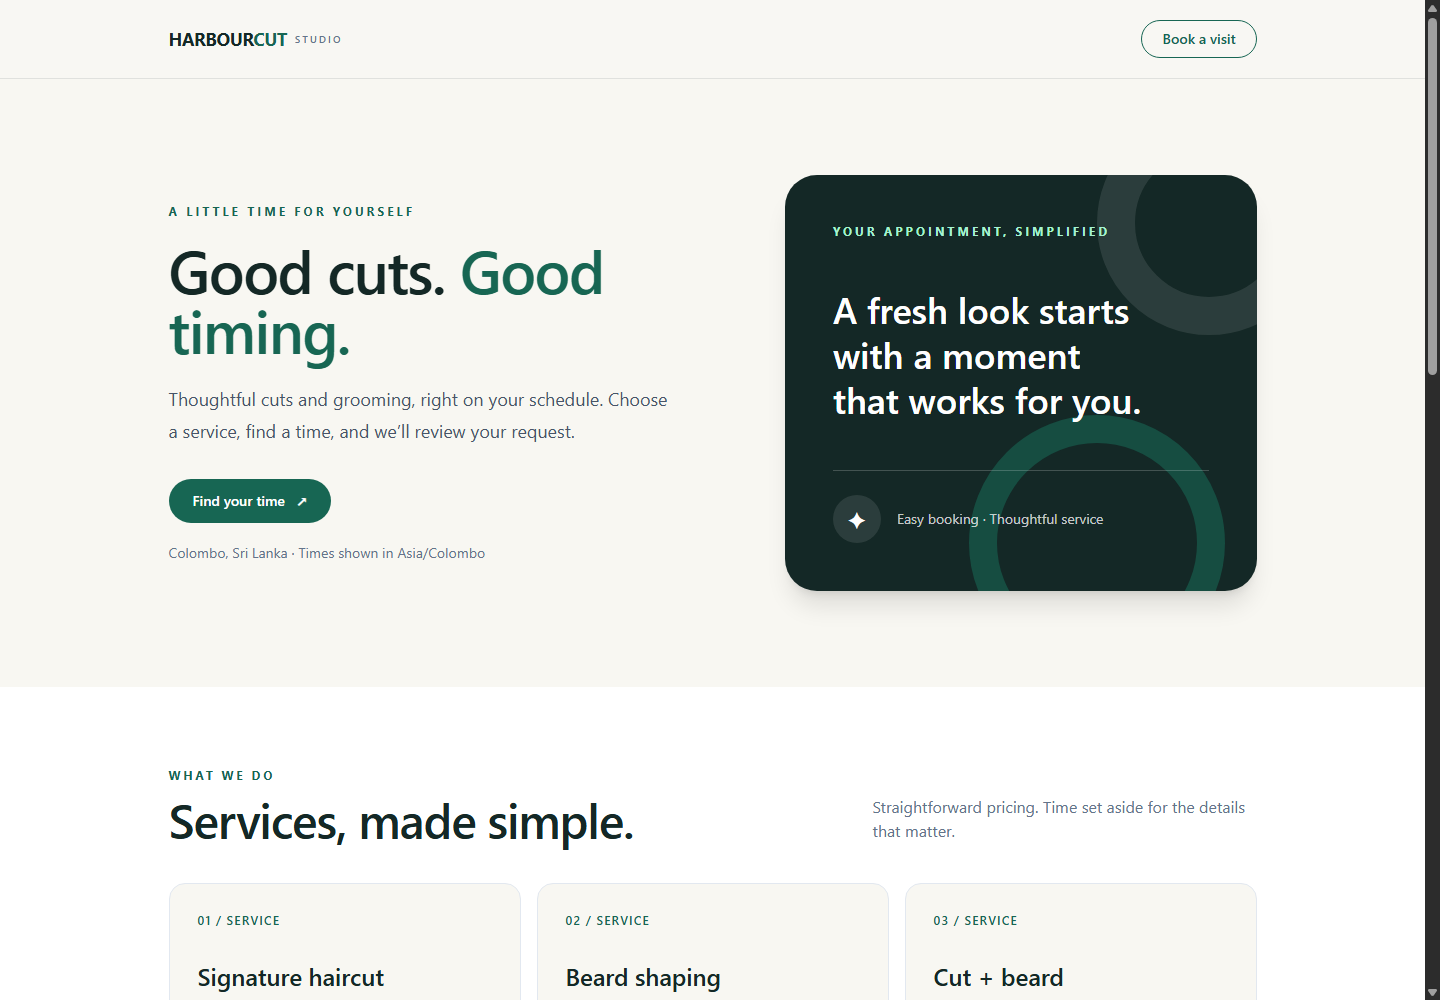
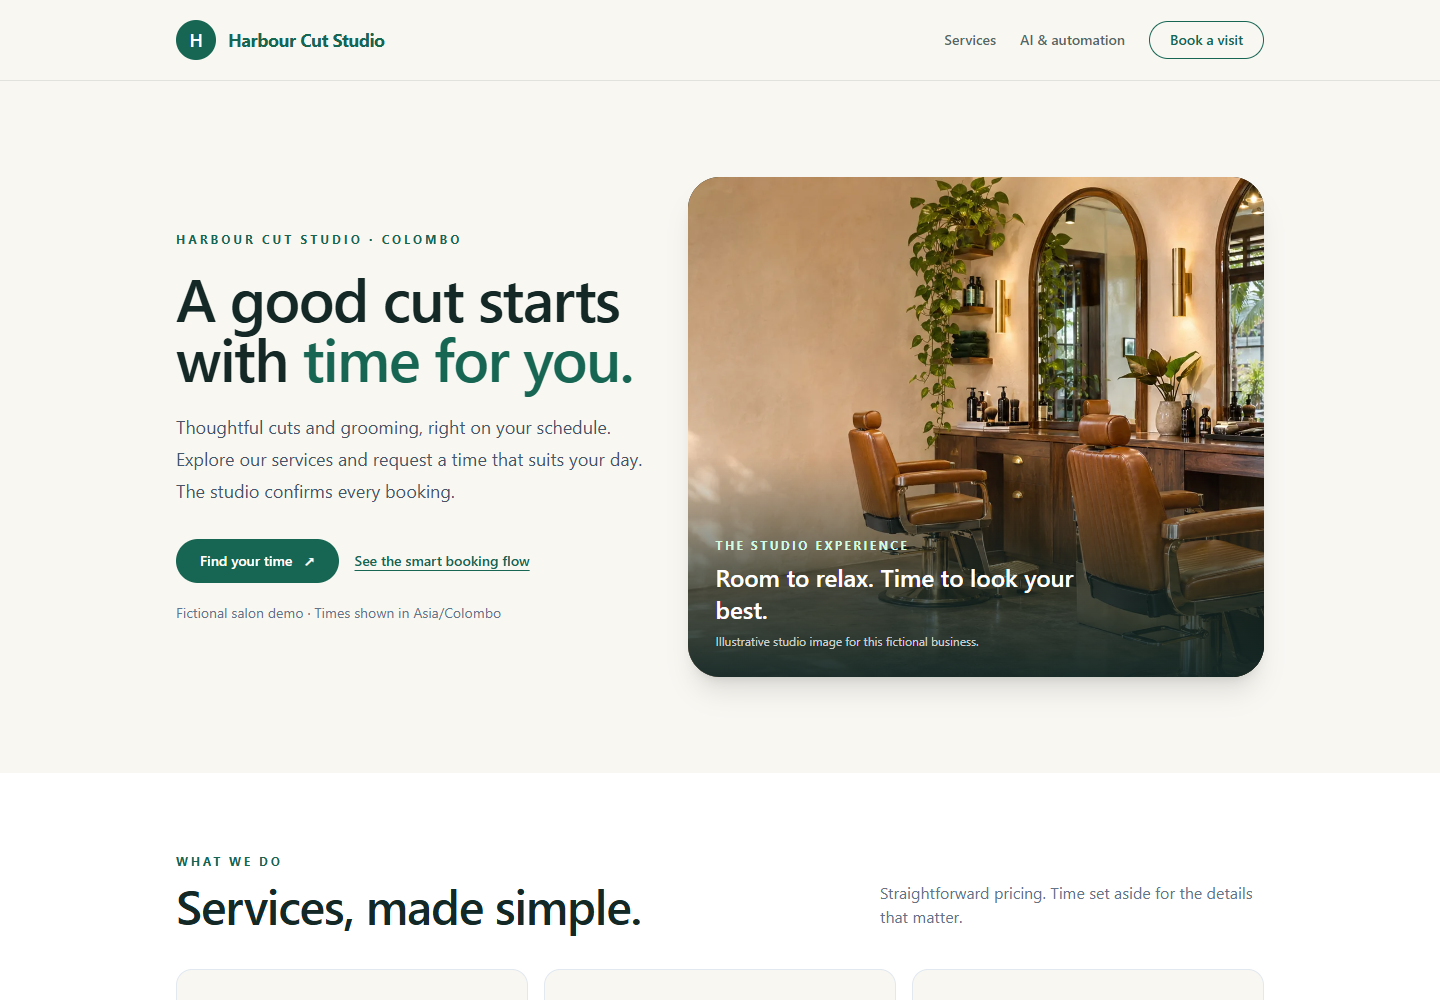
Show verified salon and automation previews in project docs

diff --git a/docs/architecture.md b/docs/architecture.md
@@ -18,9 +18,9 @@ Implemented tables: businesses, services, resources, working_hours, appointments
 
 ## Security and AI
 
-Public routes expose only publishable business and availability data. Owner routes use PBKDF2 password verification and hashed, expiring D1 sessions in HTTP-only, SameSite=Strict cookies. The API checks request origins, and production HTTPS adds the Secure cookie flag. Zod schemas validate API input; SQL parameters prevent injection. Request bodies are bounded, and database-backed per-client limits protect booking, assistant, and login endpoints. Logs omit secrets and private enquiry content. The assistant uses deterministic extraction by default; an optional Cloudflare AI binding requires visitor consent and validated structured output. AI cannot submit a booking. Customer-facing notification drafts require owner approval and use a mock delivery adapter; no external message is sent.
+Public routes expose only publishable business and availability data. The local owner setup supports PBKDF2; the deployed Free-tier demo uses a generated 256-bit password with a salted SHA-256 verifier to fit the Workers CPU budget. Both paths issue hashed, expiring D1 sessions in HTTP-only, SameSite=Strict cookies. The API checks request origins, and production HTTPS adds the Secure cookie flag. Zod schemas validate API input; SQL parameters prevent injection. Request bodies are bounded, and database-backed per-client limits protect booking, assistant, and login endpoints. Logs omit secrets and private enquiry content. The assistant uses deterministic extraction by default; an optional Cloudflare AI binding requires visitor consent and validated structured output. AI cannot submit a booking. Customer-facing notification drafts require owner approval and use a mock delivery adapter; no external message is sent.
 
-The public `/owner-preview` route holds four hard-coded fictional appointments in browser memory. Its filters and status buttons do not call owner APIs or persist data. The authenticated `/owner` route remains the only interface for real owner records and actions.
+The public `/owner-preview` route holds four hard-coded fictional appointments and an interactive AI and automation walkthrough in browser memory. Its filters, status buttons, and sample workflow do not call owner APIs or persist data. The authenticated `/owner` route remains the only interface for real owner records and actions.
 
 The server defaults to demo mode. Public booking requests must use a reserved `@example.invalid` contact, and the server replaces submitted names and notes with a fixed fictional name and an empty note. These rules are configured through `DEMO_MODE` rather than shared booking logic. A production business would need a separate real-data privacy and deployment review before setting `DEMO_MODE=false`.
 
@@ -30,4 +30,4 @@ The scheduled Worker releases at most two demo reservations more than 24 hours a
 
 Customer lookup and cancellation use the booking reference plus a private random UUID shown at submission, sent in POST bodies and matched within the business. This is a bearer code: anyone who obtains both values can act on the booking. Stronger verified customer accounts and recovery remain future work. Cancellation is allowed for pending or confirmed bookings until 30 minutes before the visit; the database records the status change and audit event.
 
-Owners can delete a customer record after all its bookings reach terminal states. A D1 batch removes the record and linked assistant analyses, anonymizes booking personal fields, and changes private booking codes while preserving status and audit history. An owner-run retention action processes up to 10 customers whose every booking is resolved and ended at least 365 days earlier, plus up to 100 unbooked assistant analyses older than 365 days. The standalone hourly Worker also processes at most one such customer and 10 unbooked analyses per invocation. It prepares approval-gated reminder drafts and recovers bounded event batches; its Cron Trigger is checked in but not deployed. A mock CRM adapter records durable sync outcomes without external calls; real provider adapters remain future work. Other remaining work includes stronger customer identity and broader language evaluation. The current owner model is a single local account per deployment; multi-tenant owner management is future work. Cloudflare free-tier limits and applicable package licenses must be rechecked before deployment.
+Owners can delete a customer record after all its bookings reach terminal states. A D1 batch removes the record and linked assistant analyses, anonymizes booking personal fields, and changes private booking codes while preserving status and audit history. An owner-run retention action processes up to 10 customers whose every booking is resolved and ended at least 365 days earlier, plus up to 100 unbooked assistant analyses older than 365 days. The standalone hourly Worker also processes at most one such customer and 10 unbooked analyses per invocation. It prepares approval-gated reminder drafts and recovers bounded event batches; its Cron Trigger is deployed, while live CPU usage and the first scheduled outcome still need observation. A mock CRM adapter records durable sync outcomes without external calls; real provider adapters remain future work. Other remaining work includes stronger customer identity and broader language evaluation. The current owner model is a single local account per deployment; multi-tenant owner management is future work. Recheck Cloudflare Free limits and applicable package licenses before future deployments.

diff --git a/docs/testing.md b/docs/testing.md
@@ -8,7 +8,7 @@ Set `LOCAL_OWNER_PASSWORD` and run `npm run test:config:local` against local Pag
 
 With the same variable set, `npm run test:e2e` also signs in and saves the business profile, a service, and a day through the owner UI. CI creates a disposable local owner with a generated password for this check; it does not use deployment credentials.
 
-The public owner-preview browser test confirms fictional records can be filtered and changed locally, a page reload restores their initial state, and the preview makes no owner API requests.
+The public owner-preview browser test confirms fictional records can be filtered and changed locally, a page reload restores their initial state, and the preview makes no owner API requests. It also advances the fictional AI and automation sample through suggestion, owner review, and mock delivery. The customer browser test checks the salon landing page, AI and automation explanation, correctly rendered Monday opening hours, and the local salon image.
 
 `npm run test:customers:local` creates a fictional booking, searches its generated customer record, verifies private appointment history and note updates, then restores the original note. The Playwright booking flow also checks the owner customer view when `LOCAL_OWNER_PASSWORD` is set.
 
@@ -36,8 +36,10 @@ With `node scripts/wrangler.mjs dev --config wrangler.worker.toml --local --port
 
 With `LOCAL_OWNER_PASSWORD` set, `npm run test:demo:local` confirms demo mode is advertised by the public catalogue, rejects real-looking email and phone contacts at the API, accepts a reserved fictional address, and verifies the stored name and note are anonymized. The browser suite checks the contact field's client-side validity before submitting its fictional booking.
 
-Latest measured local results on 2026-11-11: TypeScript and ESLint passed; Vitest 28 tests passed; Python unittest 9 tests passed; the Vite production build passed; Playwright passed all 4 browser tests with a local test owner. Local enquiry, privacy, manual and scheduled retention, session security, scheduled recovery, demo reset, reminder, mock CRM, and demo contact and data-minimization smoke tests passed against migrated D1. Earlier CI runs failed before browser tests because their runners could not resolve Ubuntu package hosts while installing Chromium dependencies. [The revised workflow](https://github.com/pasindu-jayasena/microbizflow-ai/actions/runs/43059740756) passed all checks for source commit `187960d8f7ef270c79cbc66a8b007271ce8bc023`.
+Earlier measured local results on 2026-11-11: TypeScript and ESLint passed; Vitest 28 tests passed; Python unittest 9 tests passed; the Vite production build passed; Playwright passed all 4 browser tests with a local test owner. Local enquiry, privacy, manual and scheduled retention, session security, scheduled recovery, demo reset, reminder, mock CRM, and demo contact and data-minimization smoke tests passed against migrated D1. Earlier CI runs failed before browser tests because their runners could not resolve Ubuntu package hosts while installing Chromium dependencies. [The revised workflow](https://github.com/pasindu-jayasena/microbizflow-ai/actions/runs/43059740756) passed all checks for source commit `187960d8f7ef270c79cbc66a8b007271ce8bc023`.
 
-Scheduled workflow recovery is implemented and locally tested but has not been deployed. Workflow tests cover database event creation, customer draft approval, mock delivery failure and retry. The AI suite covers invalid model output, provider failures, timeouts, and limited retry behavior. The deployed demo also needs an end-to-end booking check against its public HTTPS URL.
+For the salon and AI automation UI update on 2026-11-12, the production build, TypeScript, ESLint, and 32 Vitest tests passed locally. Playwright passed the three tests that do not require a local owner password; the owner settings test was skipped in this shell. The branch CI uses a disposable owner password and must pass that fourth browser test before release. Screenshots were recaptured only after the customer page loaded, then visually inspected at desktop and mobile widths.
+
+The private hourly scheduled Worker was deployed on 2026-11-12. Its first live Cron invocation and CPU time remain unverified; scheduled workflow recovery and demo reset were tested locally. Workflow tests cover database event creation, customer draft approval, mock delivery failure and retry. The AI suite covers invalid model output, provider failures, timeouts, and limited retry behavior. A live HTTPS smoke test passed synthetic booking, private-code lookup and cancellation, owner login and authorization, and the demo contact guard. See [deployment.md](deployment.md) for the production evidence.
 
 CI uses the `ubuntu-24.04` runner and its preinstalled Google Chrome for browser tests while GitHub migrates `ubuntu-latest` to 26.04. This avoids a separate `apt` dependency installation after earlier runners could not resolve Ubuntu package hosts. [The reviewed source run](https://github.com/pasindu-jayasena/microbizflow-ai/actions/runs/43058314575) passed all steps.

diff --git a/README.md b/README.md
@@ -6,7 +6,7 @@ MicroBizFlow AI is an open-source booking and customer workflow application for 
 
 ## Current status
 
-The public demo is live at **[microbizflow-ai.pages.dev](https://microbizflow-ai.pages.dev/)**. It uses fictional seed data and accepts booking contacts ending in `@example.invalid` only. The standalone Worker has an hourly Cron Trigger for the bounded demo reset; the trigger is deployed, while its first live run and CPU usage still need observation.
+The public demo is live at **[microbizflow-ai.pages.dev](https://microbizflow-ai.pages.dev/)**. It uses fictional seed data and accepts booking contacts ending in `@example.invalid` only. The customer page now presents a salon-focused visual, service details, a booking assistant, and a clear AI and automation walkthrough. The standalone Worker has an hourly Cron Trigger for the bounded demo reset; production CPU usage still needs observation.
 
 Visitors can explore the owner workspace preview at `/owner-preview` without signing in. It uses four fictional records held only in the browser; the real owner dashboard and customer records remain protected. In local development, open `http://127.0.0.1:8788/owner-preview`.
 
@@ -14,13 +14,23 @@ See the [deployment record](docs/deployment.md) for the verified release, free-t
 
 The application includes service browsing, real slot availability, pending booking requests, database-enforced chair capacity, idempotent submissions, reference-and-code status lookup and cancellation, owner sign-in, appointment decisions, searchable and exportable owner appointments, business-profile, service, and working-hours management, searchable customer records with private notes and owner-controlled deletion, owner analytics from stored records, a no-key English/Sinhala enquiry assistant with a structured owner review queue, approval-gated mock notifications and appointment reminder drafts, signed inbound webhook support, and a durable mock CRM sync. The live demo uses a fixed fictional visitor name, discards booking notes, and sends no real messages. Remote AI inference and inbound webhooks are optional and unconfigured in production. Real messaging and external CRM providers are still on the [roadmap](docs/roadmap.md). Do not use the public demo for real customer data.
 
-![Customer page at desktop width](docs/screenshots/customer-desktop.png)
+## AI and automation in the demo
 
-[Narrow viewport preview](docs/screenshots/customer-mobile.png) · Screenshots show fictional demonstration data.
+The **no-key assistant** reads a visitor's English or Sinhala enquiry and suggests a service, date, and time when it recognizes them. Missing details stay missing. A visitor must still choose an available slot; the booking API and D1 capacity rules make the actual decision. Cloudflare Workers AI is an optional adapter and is **not enabled** in the public demo.
 
-[Owner sign-in preview](docs/screenshots/owner-login.png)
+Booking events create durable owner activity and customer draft notifications. The owner reviews appointment requests and must approve customer drafts. Delivery is recorded in a **mock outbox**; the public demo sends no real email or SMS and does not connect to an external CRM. The [interactive owner workflow preview](https://microbizflow-ai.pages.dev/owner-preview) uses fictional records in browser memory and never loads private customer data.
 
-[Owner workspace preview](docs/screenshots/owner-preview.png) · [Mobile owner preview](docs/screenshots/owner-preview-mobile.png)
+![Salon-focused customer page at desktop width](docs/screenshots/customer-desktop.png)
+
+[Customer page at mobile width](docs/screenshots/customer-mobile.png) · The studio image is generated and illustrative; Harbour Cut Studio is fictional.
+
+![No-key booking assistant suggesting a haircut and asking for missing details](docs/screenshots/booking-assistant.png)
+
+![Public AI and automation walkthrough with booking rules and owner review](docs/screenshots/ai-automation.png)
+
+![Interactive fictional owner approval workflow preview](docs/screenshots/owner-automation-preview.png)
+
+[Full owner workspace preview](docs/screenshots/owner-preview.png) · [Mobile owner preview](docs/screenshots/owner-preview-mobile.png) · [Owner sign-in](docs/screenshots/owner-login.png). All screenshots use fictional demonstration data.
 
 ## Local setup
 

diff --git a/docs/progress.md b/docs/progress.md
@@ -61,6 +61,12 @@ All nine migrations and fictional seed data were applied to the approved remote 
 
 Wrangler confirmed no pending remote D1 migrations. A point-in-time D1 info check showed 18 tables, 245,760 bytes, and 148 rows read and 144 rows written over 24 hours. The owner-reported Cloudflare Billing status remains Workers Free active, R2 Paid canceled, no other paid subscriptions, and $0.00; the OAuth token cannot independently read billing. The first live Cron execution and production CPU time have not yet been observed. The generated production owner password remains in ignored `.production-owner-credentials` until the owner saves it privately; the live login succeeded.
 
+## 2026-11-12 — Salon UI and AI automation preview
+
+The customer page's opening-hours text and other symbols were repaired from malformed UTF-8 sequences. A generated illustrative two-chair salon image was optimized as a 141 KB WebP asset. The customer page now presents a studio-focused hero, clear service navigation, and a prominent AI and automation walkthrough that explains no-key suggestions, deterministic booking checks, owner review, and mock-only delivery. The booking assistant visibly identifies its no-key demo mode. The public owner preview now includes an interactive fictional suggestion-to-approval workflow that makes no owner API requests; the protected owner automation section highlights the human approval boundary.
+
+The README now includes refreshed customer and owner screenshots plus dedicated booking assistant and AI automation previews, all using fictional data. The deployment and architecture notes were updated to match the live system. Local build, TypeScript, ESLint, 32 Vitest tests, and three Playwright flows passed; the local owner settings test was skipped because this shell has no disposable local password. The updated screenshots were visually reviewed at desktop and mobile widths. Branch CI and deployment of this UI update remain the next gates.
+
 ## Next work
 
-Monitor the first hourly Cron run and Cloudflare CPU and request usage within the Free plan. Save the production owner password in a password manager, then remove the ignored local credential file. Continue feature work on `deploymentBranch` with verified owner commits and CI before updating `main` and the live Pages deployment.
+Require green branch and PR CI with the disposable owner browser flow, then fast-forward the reviewed UI commit to `main` and deploy the refreshed Pages assets on the existing Free project. Verify the live image, punctuation, assistant, and workflow preview. Continue monitoring Cloudflare Free usage and the hourly Cron; save the ignored production owner password privately before deleting its local file.
